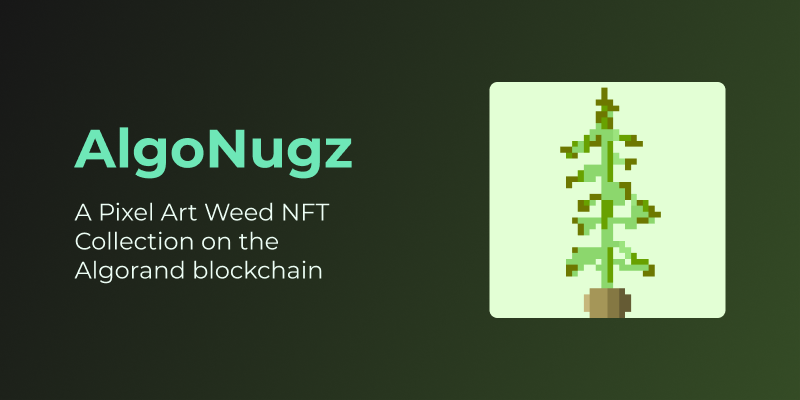
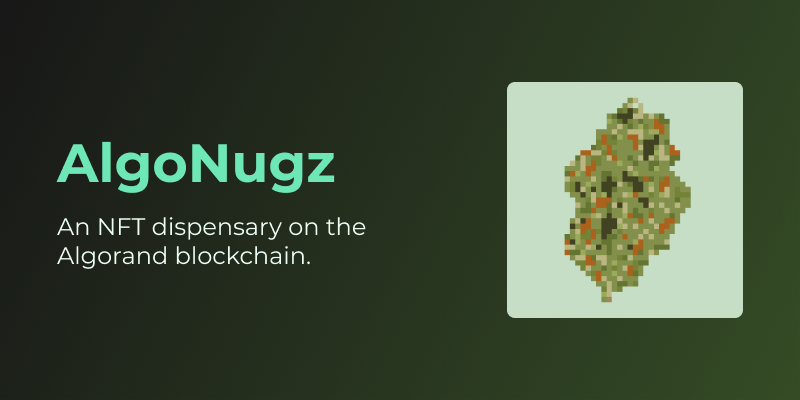
🍱 updates assets

Changed region(s): [[0.5938, 0.18, 0.9375, 0.81], [0.0625, 0.51, 0.4688, 0.72], [0.0625, 0.3, 0.4375, 0.48]]

diff --git a/pages/index.js b/pages/index.js
@@ -2,9 +2,9 @@ import Head from 'next/head';
 import Image from 'next/image';
 
 export default function Home() {
-  const title = 'AlgoNugz | An NFT Collection';
+  const title = 'AlgoNugz';
   const description =
-    'A Pixel Art Weed NFT Collection on the Algorand blockchain';
+    'Coming Soon - An NFT dispensary on the Algorand blockchain.';
 
   return (
     <div className='min-h-screen bg-gradient-to-br from-gray-900 to-[#354c25] font-body'>
@@ -27,13 +27,12 @@ export default function Home() {
         <div>
           <h1 className='mb-2 text-5xl font-bold text-green-300'>AlgoNugz</h1>
           <h2 className='text-xl text-green-50'>
-            Coming Soon - A Pixel Art Weed NFT Collection on the Algorand
-            blockchain
+            Coming Soon - An NFT dispensary on the Algorand blockchain.
           </h2>
           <div className='mt-10'>
             <Image
-              src='/nugz/algonugz001.png'
-              alt='AlgoNugz #001'
+              src='/nugz/NUG001.png'
+              alt='AlgoNugz AK-47'
               width={200}
               height={200}
               className='rounded-lg'
